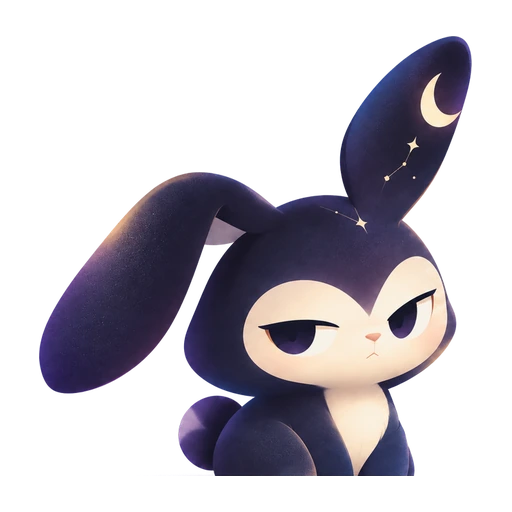
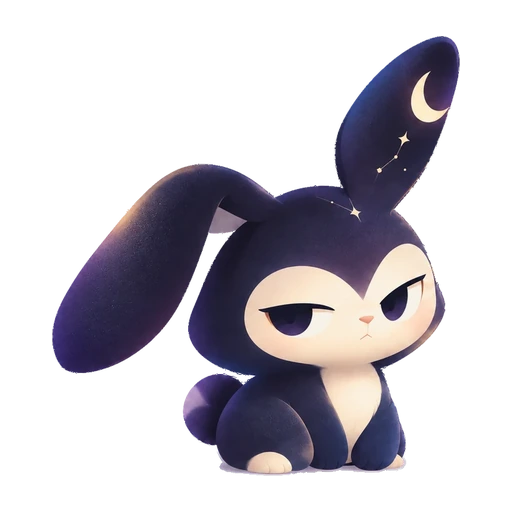
CEL-187 (1/5): anh linh vat v2.3 — 18 artwork, pipeline bo bong san, khoa 2 state
- docs/thiet-ke/celes-nhan-vat/v2-3/: 18 PNG goc dung byte trong
  celes_character_system_v2_3_dark_halo_fix.html + manifest.json.
- lam-sach-anh-celes.py: nhanh lam_sach_v23 — nguon da khu vien trang nen bo
  1b/1c/2; bo bong san theo alpha + dai chan (khong cat chan moving); giu moi
  manh >= 0.5% (ngoi sao one-ear-up, buom playing).
- public/celes: 18 webp tu v2.3 (~30-44KB), ke ca 5 state dang chay o /hoi-dap
  (doi hinh -> nghiem thu lai). Xoa found-something, side-eye (khoa).

diff --git a/components/CelesMascot.tsx b/components/CelesMascot.tsx
@@ -24,8 +24,6 @@ export type TrangThaiCeles =
   | 'default'
   | 'listening'
   | 'thinking'
-  | 'found-something'
-  | 'side-eye'
   | 'serious'
   | 'celebrate'
 

diff --git a/scripts/lam-sach-anh-celes.py b/scripts/lam-sach-anh-celes.py
@@ -1,5 +1,6 @@
 # -*- coding: utf-8 -*-
 """Lam sach anh linh vat Celes: bo bong nen nuong vao anh, khu nhiem mau nen o ria,
+(nguon v2 cu) hoac chi bo bong san (nguon v2.3, mac dinh — xem lam_sach_v23),
 roi chuan hoa ca bo ve mot khung chung.
 
 Vi sao KHONG tach bong bang mau: da do tren anh that, mat na kem va bong CHONG
@@ -210,34 +211,97 @@ def lam_sach(duong_vao, duong_ra):
         alpha_moi = np.where(dac0 & (nhan0 != giu), 0.0, alpha_moi)
 
     out = Image.fromarray(np.dstack([out_rgb, alpha_moi * 255]).astype(np.uint8), 'RGBA')
-
-    # --- 3. Trim theo bbox alpha roi CHUAN HOA ve mot khung chung ---
-    # Vi sao phai chuan hoa: anh goc moi tep mot khung (default 768, con lai 512)
-    # va moi tep mot ti le chiem khung (83% voi default, 60% voi thinking).
-    # Cung truyen cao=56 ma con tho ra to nho khac nhau 1.4 lan.
-    dac = Image.fromarray((np.where(alpha_moi > 0.08, 255, 0)).astype(np.uint8), 'L')
-    bbox = dac.getbbox()
-    if bbox:
-        cat = out.crop(bbox)
-        w, h = cat.size
-        # Neo theo CHIEU CAO: con tho ngoi, chieu cao la thu mat doc thay truoc.
-        ty = (KHUNG * CHIEM) / h
-        if w * ty > KHUNG * 0.94:      # tu the qua be ngang thi moi neo theo ngang
-            ty = (KHUNG * 0.94) / w
-        w2 = max(1, int(round(w * ty))); h2 = max(1, int(round(h * ty)))
-        cat = cat.resize((w2, h2), Image.LANCZOS)
-        khung = Image.new('RGBA', (KHUNG, KHUNG), (0, 0, 0, 0))
-        khung.alpha_composite(cat, ((KHUNG - w2) // 2, (KHUNG - h2) // 2))
-        out = khung
-
+    out = _chuan_hoa_khung(out, alpha_moi)
     out.save(duong_ra, 'WEBP', quality=92, method=6)
     return out.size
 
 
+def _chuan_hoa_khung(out, alpha_moi):
+    """Trim theo bbox alpha roi CHUAN HOA ve mot khung chung.
+
+    Vi sao phai chuan hoa: anh goc moi tep mot khung (default 768, con lai 512)
+    va moi tep mot ti le chiem khung (83% voi default, 60% voi thinking).
+    Cung truyen cao=56 ma con tho ra to nho khac nhau 1.4 lan.
+
+    Luu y: cung `cao` thi cung chieu cao KHUNG NHAN VAT (bbox), khong cung chieu
+    cao THAN. Tu the ngang (concerned nam, leaning-closer, playing) bi neo theo
+    be ngang nen tho nho hon — chap nhan, ghi o muc 12.
+    """
+    dac = Image.fromarray((np.where(alpha_moi > 0.08, 255, 0)).astype(np.uint8), 'L')
+    bbox = dac.getbbox()
+    if not bbox:
+        return out
+    cat = out.crop(bbox)
+    w, h = cat.size
+    # Neo theo CHIEU CAO: con tho ngoi, chieu cao la thu mat doc thay truoc.
+    ty = (KHUNG * CHIEM) / h
+    if w * ty > KHUNG * 0.94:      # tu the qua be ngang thi moi neo theo ngang
+        ty = (KHUNG * 0.94) / w
+    w2 = max(1, int(round(w * ty))); h2 = max(1, int(round(h * ty)))
+    cat = cat.resize((w2, h2), Image.LANCZOS)
+    khung = Image.new('RGBA', (KHUNG, KHUNG), (0, 0, 0, 0))
+    khung.alpha_composite(cat, ((KHUNG - w2) // 2, (KHUNG - h2) // 2))
+    return khung
+
+
+# Dai chan: bong san chi nam trong 6% chieu cao tinh len tu hang dac thap nhat.
+DAI_CHAN = 0.06
+
+
+def lam_sach_v23(duong_vao, duong_ra):
+    """Nguon v2.3 (celes_character_system_v2_3_dark_halo_fix.html, 02/10/2026).
+
+    Nguon nay DA khu vien trang (RGB lop ria duoc decontaminate tu pixel loi),
+    nen KHONG chay 1b/1c/2 cua `lam_sach` — chay lai la khu nen hai lan.
+
+    Con lai mot viec: MOI anh v2.3 deu nuong bong san mo duoi chan (alpha < 0.6).
+    `_bo_bong` (cat theo HANG) cat mat chan sau cua `moving` -> khong dung.
+    Bo bong theo ALPHA + VI TRI: pixel mo (< 0.6), cach than dac (> 0.9) qua 3px,
+    VA nam trong dai chan. Ngoai dai chan la quang ngoi sao, qua cau, lap lanh,
+    long vien — khong cham. Da ghep mat na len ca 18 anh de kiem bang mat.
+
+    Bo manh vun: giu MOI manh >= 0.5% manh lon nhat (ngoi sao cua one-ear-up,
+    buom cua playing la manh roi), chi bo bui.
+    """
+    a = np.array(Image.open(duong_vao).convert('RGBA')).astype(float)
+    alpha = a[:, :, 3] / 255.0
+    rgb = a[:, :, :3]
+    H = alpha.shape[0]
+
+    dac = alpha > 0.9
+    xa_than = ndimage.distance_transform_edt(~dac)
+    y_day = np.where(dac.any(axis=1))[0].max()
+    trong_dai = (np.arange(H) > y_day - int(H * DAI_CHAN))[:, None]
+    bong = (alpha < 0.6) & (xa_than > 3) & trong_dai
+    alpha = np.where(bong, 0.0, alpha)
+
+    vun = alpha > 0.08
+    nhan, so = ndimage.label(vun)
+    if so > 1:
+        kich = ndimage.sum(vun, nhan, range(1, so + 1))
+        giu = np.isin(nhan, np.where(kich >= 0.005 * kich.max())[0] + 1)
+        alpha = np.where(vun & ~giu, 0.0, alpha)
+
+    out = Image.fromarray(np.dstack([rgb, alpha * 255]).astype(np.uint8), 'RGBA')
+    out = _chuan_hoa_khung(out, alpha)
+    out.save(duong_ra, 'WEBP', quality=92, method=6)
+    return out.size, int((bong & (a[:, :, 3] > 5)).sum())
+
+
+# 18 artwork chu du an chot 02/10/2026 (muc 12). 14 artwork khoa KHONG co o day:
+# them ten vao day ma chua co quyet dinh moi la mo khoa bang tay.
+TEN_V23 = [
+    # trang thai dong
+    'default', 'listening', 'thinking', 'serious', 'celebrate',
+    # minh hoa tinh
+    'tiny-smile', 'one-ear-up', 'leaning-closer', 'reading', 'moving', 'curious',
+    'sitting-neutral', 'neutral', 'proud', 'using-laptop', 'waving', 'concerned', 'playing',
+]
+
+
 if __name__ == '__main__':
-    TEN = ['default', 'listening', 'thinking', 'found-something',
-           'side-eye', 'serious', 'celebrate']
-    for t in TEN:
-        kt = lam_sach('docs/thiet-ke/celes-nhan-vat/v2/states/%s.png' % t,
-                      'public/celes/%s.webp' % t)
-        print('%-16s -> %s  %d KB' % (t, kt, os.path.getsize('public/celes/%s.webp' % t) // 1024))
+    for t in TEN_V23:
+        kt, so_bong = lam_sach_v23('docs/thiet-ke/celes-nhan-vat/v2-3/%s.png' % t,
+                                   'public/celes/%s.webp' % t)
+        print('%-16s -> %s  %d KB  bong da bo %d px' % (
+            t, kt, os.path.getsize('public/celes/%s.webp' % t) // 1024, so_bong))
